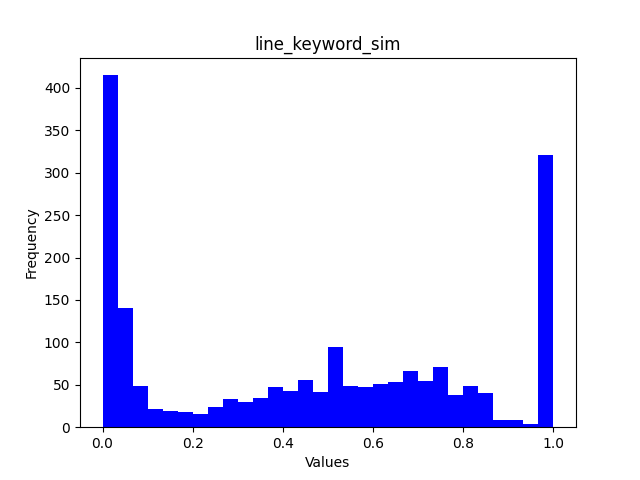
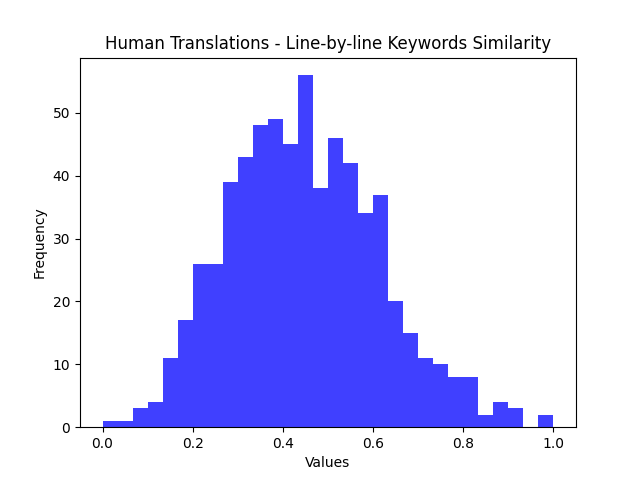
Add baseline and human translation evaluation results

diff --git a/CODE/LLMExperiments/evaluate_HT.py b/CODE/LLMExperiments/evaluate_HT.py
@@ -1,16 +1,22 @@
 from HT_loader import HT_loader
 from evaluator import Evaluator
 from english_structure_extractor import SectionStructure
-# from eval.rhyme_finder import RhymeFinder
-# from eval.tagger import RhymeTagger
+from eval.rhyme_finder import RhymeFinder
+from eval.tagger import RhymeTagger
 from eval.same_word_tagger import SameWordRhymeTagger
+from eval.syllabator import syllabify as cs_syll
+from eval.en_syllabator import syllabify as en_syll
+from rhymer_types import RhymerType
 import matplotlib.pyplot as plt
 import random
-
+import numpy as np
 
 RANDOM_BASELINE = True
 
-evaluator = Evaluator(rt=SameWordRhymeTagger())
+evaluator = Evaluator(czech_rhyme_detector=RhymerType.SAME_WORD_RHYMETAGGER)
+structure = SectionStructure(kw_model=evaluator.kw_model, english_rhyme_detector=RhymerType.SAME_WORD_RHYMETAGGER)
+# rt_cs=SameWordRhymeTagger("cs")
+# rt_en=SameWordRhymeTagger("en")
 
 cs_lyrics = HT_loader("./", "cs")
 en_lyrics = HT_loader("./", "en")
@@ -21,7 +27,22 @@ if RANDOM_BASELINE:
 assert len(en_lyrics) == len(cs_lyrics)
 
 HT_pairs = []
+# results_dict = {"syll_dist" : []
+#                 }
+
 for i in range(len(en_lyrics)):
+    # cs_split = cs_lyrics[i].split(',')
+    # en_split = en_lyrics[i].split(',')
+
+    # cs_scheme = rt_cs.tag(cs_split)
+    # en_scheme = rt_en.tag(en_split)
+
+    # agreement_cs = evaluator.get_rhyme_scheme_agreement(en_scheme, cs_scheme)
+    # accuracy = evaluator.get_rhyme_scheme_accuracy(cs_scheme, en_scheme)
+
+    # results_dict["rhyme_scheme_agree"].append(agreement_cs)
+    # results_dict["rhyme_accuracy"].append(accuracy)
+
     if RANDOM_BASELINE:
         cs_split = cs_lyrics[i].split(',')
         en_split = en_lyrics[i].split(',')
@@ -29,25 +50,91 @@ for i in range(len(en_lyrics)):
         cs_lyrics[i] = ','.join(cs_split[:shorter_len])
         en_lyrics[i] = ','.join(en_split[:shorter_len])
 
-    HT_pairs.append((cs_lyrics[i], SectionStructure(section=en_lyrics[i], kw_model=evaluator.kw_model, rt=evaluator.rt)))
+        cs_split = cs_split[:shorter_len]
+        en_split = en_split[:shorter_len]
+
+    
+    # en_sylls = []
+    # for i in range(len(en_split)):
+    #     en_sylls.append(len(en_syll(en_split[i])))
+    
+    # cs_sylls = []
+    # for i in range(len(cs_split)):
+    #     cs_sylls.append(len(cs_syll(cs_split[i])))
+
+    # results_dict["syll_dist"].append(evaluator.get_section_syllable_distance(cs_sylls, en_sylls))
+
+    structure.fill(en_lyrics[i])
+    HT_pairs.append((cs_lyrics[i], structure.copy()))
     
 results_dict = evaluator.evaluate_outputs_structure(HT_pairs, evaluate_keywords=True, evaluate_line_keywords=True, evaluate_translations=True)
+
+name_dict = {"syll_dist" : "Syllable Distance",
+            "syll_acc" : "Syllable Accuracy",
+            "rhyme_scheme_agree" : "Rhyme Scheme Agreement",
+            "rhyme_accuracy" : "Rhyme Scheme Accuracy",
+            "semantic_sim" : "Semantic Similarity",
+            "keyword_sim" : "Keyword Similarity",
+            "line_keyword_sim" : "Line-by-line Keywords Similarity",
+            "phon_rep_dif" : "Phoneme Repetition Difference",
+            "bleu4gram" : "BLEU (4-gram)",
+            "bleu2gram" : "BLEU (2-gram)",
+            "chrf" : "chrF"}
 
 for cat in results_dict:
     print(f"{cat} -> {sum(results_dict[cat]) / len(results_dict[cat])}")
 
-    plt.hist(results_dict[cat], bins=30, color="blue", range=(0,1))
-    
-    # Adding labels and title
+    bins = np.linspace(0, 3, 91)
+    plt.hist(results_dict[cat], bins=bins, density=False, alpha=0.75, color='b')
     plt.xlabel('Values')
-    plt.ylabel('Frequency')
-    plt.title(cat)
+    plt.ylabel('Frequency')   
     
     # Display the plot
     if RANDOM_BASELINE == True:
+        plt.title(f"Random baseline - {name_dict[cat]}")
         plt.savefig(f"random_baseline_{cat}.png")
     else:
+        plt.title(f"Human Translations - {name_dict[cat]}")
         plt.savefig(f"HT_{cat}.png")
+    
+    plt.show()
+
+
+# RANDOM
+# syll_dist -> 0.647128599750164
+# syll_acc -> 0.09944603419179703
+# rhyme_scheme_agree -> 0.5544133832269426
+# rhyme_accuracy -> 0.19881190971329638
+# semantic_sim -> 0.2313272277257751
+# keyword_sim -> 0.34168958166565383
+# line_keyword_sim -> 0.21761956677711425
+# phon_rep_dif -> 0.12407562340733677
+# bleu4gram -> 5.01326109678458e-157
+# bleu2gram -> 0.0009352034288523701
+# chrf -> 0.0903275489758511
+
+# TRUE
+# syll_dist -> 0.031397304724096894
+# syll_acc -> 0.8262192139310786
+# rhyme_scheme_agree -> 0.7669619928094502
+# rhyme_accuracy -> 0.598514642351314
+# semantic_sim -> 0.616103348475759
+# keyword_sim -> 0.6424479474914827
+# line_keyword_sim -> 0.4489510799626657
+# phon_rep_dif -> 0.08314464719285819
+# bleu4gram -> 0.003080892565414774
+# bleu2gram -> 0.03889312066055365
+# chrf -> 0.16327499136429904
+
+
+
+# espeak
+# scheme_agreement_to_cs -> 0.7669619928094502
+# scheme_agreement_to_en -> 0.8274359820969988
+
+# ipa transcribers
+# scheme_agreement_to_cs -> 0.6820884388680993
+# scheme_agreement_to_en -> 0.8425232959131264
 
 
 ##########################
@@ -61,7 +148,8 @@ for cat in results_dict:
 # keyword_sim -> 0.49629239412813875
 # line_keyword_sim -> 0.5003293137231976
 # phon_rep_dif -> 0.08314464719285819
-# bleu -> 0.03911828525782059
+# bleu -> 0.03911828525782059       2gram
+# bleu -> 0.0037377977622871255     4gram
 # chrf -> 0.1670763720679358
 
 #########################
